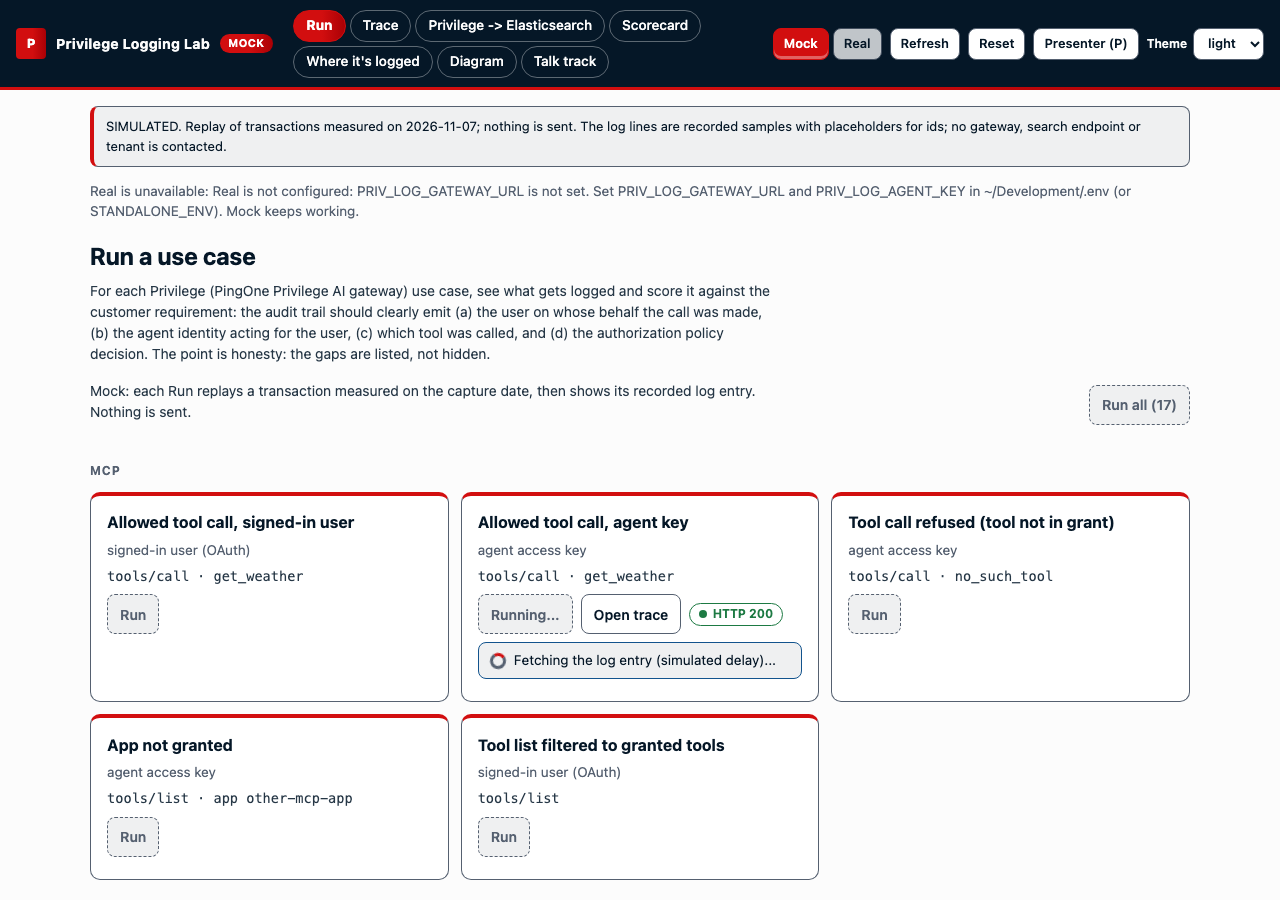
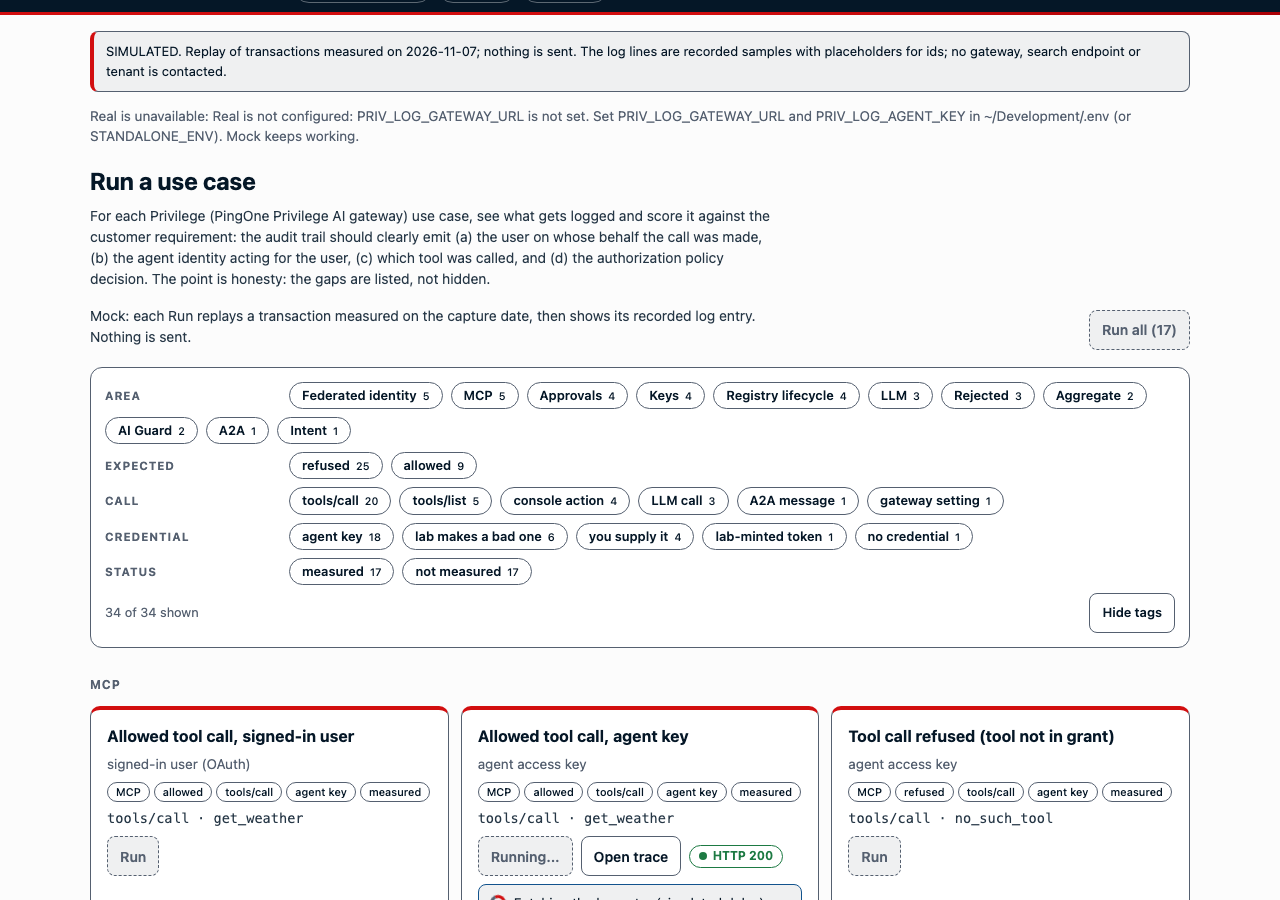
Run page: tag every case card and filter the cards by tag, shelf style

diff --git a/web/src/components/LogEntries.jsx b/web/src/components/LogEntries.jsx
@@ -1,9 +1,10 @@
 import { useMemo, useState } from "react";
+import { TagFilter, TagPills } from "./TagFilter";
 import { parseLogLine } from "../lib/logEntry";
 import { FIELDS, FIELD_LABEL, fieldsOf } from "../lib/marks";
 import { Chip, LevelChip } from "./Chips";
 import JsonTree, { FieldLegend } from "./JsonTree";
-import { matchesAll, tagId, tagsFor } from "../lib/entryTags";
+import { matchesAll, tagsFor } from "../lib/entryTags";
 
 const METHOD = {
   marker: ["ok", "matched by marker"], window: ["warn", "time window: inferred"], recorded: ["info", "recorded sample"],
@@ -16,66 +17,6 @@ const SHOW = 50;
 const KIND = { runtime: ["ok", "runtime event"], console: ["info", "console event"], unknown: ["neutral", "kind unknown"] };
 const GROUPS = [["type", "Event type"], ["match", "This call or nearby"], ["label", "Labels"], ["identity", "Identity"]];
 
-// Styled after the Demo Shelf's tag filter (demo-shelf-LAB): a "Filter by tag" toggle, then a panel of groups with a pill per tag
-// and its count, "X of Y shown", Clear tags / Hide tags. A count is how many entries that tag would leave with every other group's
-// selection applied (within a group, tags add up); a tag that would leave none is disabled unless it is selected.
-function TagFilter({ tagsByEntry, selected, onToggle, onClear, shown, total }) {
-  const [open, setOpen] = useState(false);
-  const all = new Map();
-  for (const tags of tagsByEntry) for (const t of tags) all.set(tagId(t), t);
-  const countFor = (t) => {
-    const others = new Set([...selected].filter((id) => !id.startsWith(`${t.group}:`)));
-    others.add(tagId(t));
-    return tagsByEntry.filter((tags) => matchesAll(tags, others)).length;
-  };
-  const status = <span className="tag-filters__count" role="status" data-testid="tag-filter-count">{shown} of {total} shown</span>;
-  if (!open && selected.size === 0) {
-    return <p className="tag-toggle"><button type="button" aria-expanded="false" onClick={() => setOpen(true)} data-testid="tag-filter-open">Filter by tag</button> {status}</p>;
-  }
-  return (
-    <section className="tag-filters" aria-label="Filter entries by tag" data-testid="tag-filter">
-      {GROUPS.map(([g, label]) => {
-        const items = [...all.values()].filter((t) => t.group === g).map((t) => ({ t, n: countFor(t) })).sort((a, b) => b.n - a.n || a.t.value.localeCompare(b.t.value));
-        if (!items.length) return null;
-        return (
-          <div key={g} role="group" aria-label={label} className="tag-filters__row">
-            <span className="tag-filters__group">{label}</span>
-            {items.map(({ t, n }) => {
-              const on = selected.has(tagId(t));
-              return (
-                <button key={tagId(t)} type="button" className="tag-chip" aria-pressed={on} disabled={!on && n === 0} onClick={() => onToggle(tagId(t))} data-testid="filter-tag" data-tag={tagId(t)}>
-                  {t.value} <small>{n}</small>
-                </button>
-              );
-            })}
-          </div>
-        );
-      })}
-      <div className="tag-filters__bar">
-        {status}
-        {selected.size > 0 && <button type="button" onClick={onClear} data-testid="tag-filter-clear">Clear tags</button>}
-        {selected.size === 0 && <button type="button" aria-expanded="true" onClick={() => setOpen(false)} data-testid="tag-filter-hide">Hide tags</button>}
-      </div>
-    </section>
-  );
-}
-
-// The tags on one entry, as the shelf shows tags on a box: small pills (a picked one is filled), at most MAX_PILLS, then "+N more".
-const MAX_PILLS = 6;
-function EntryTags({ tags, selected, onToggle }) {
-  const [more, setMore] = useState(false);
-  const shown = more ? tags : tags.slice(0, MAX_PILLS);
-  return (
-    <ul className="tag-pills" aria-label="Tags" data-testid="entry-tags">
-      {shown.map((t) => (
-        <li key={tagId(t)}>
-          <button type="button" className="tag-pill" aria-pressed={selected.has(tagId(t))} onClick={() => onToggle(tagId(t))} data-testid="entry-tag" data-tag={tagId(t)}>{t.value}</button>
-        </li>
-      ))}
-      {!more && tags.length > MAX_PILLS && <li><button type="button" className="tag-more" onClick={() => setMore(true)} data-testid="entry-tags-more">+{tags.length - MAX_PILLS} more</button></li>}
-    </ul>
-  );
-}
 
 export default function LogEntries({ lines, methods = [], marks = {}, testId = "lines", scored = true, from = "", kinds = [], indices = [] }) {
   const [all, setAll] = useState(false);
@@ -92,7 +33,7 @@ export default function LogEntries({ lines, methods = [], marks = {}, testId = "
   return (
     <div data-testid={testId}>
       <FieldLegend />
-      <TagFilter tagsByEntry={tagsByEntry} selected={selected} onToggle={toggle} onClear={() => setSelected(new Set())} shown={visibleIdx.length} total={lines.length} />
+      <TagFilter groups={GROUPS} label="Filter entries by tag" tagsByEntry={tagsByEntry} selected={selected} onToggle={toggle} onClear={() => setSelected(new Set())} shown={visibleIdx.length} total={lines.length} />
       <ol className="entries">
         {visibleIdx.slice(0, shown).map((i) => {
           const line = lines[i];
@@ -107,7 +48,7 @@ export default function LogEntries({ lines, methods = [], marks = {}, testId = "
                 {word && <Chip kind={kind} testId="entry-method">{word}</Chip>}
                 {fs.map((f) => <span key={f.field} className="ltag"><span className="ltag__name">{FIELD_LABEL[f.field]}</span> <LevelChip level={f.level} /></span>)}
               </div>
-              <EntryTags tags={tagsByEntry[i]} selected={selected} onToggle={toggle} />
+              <TagPills tags={tagsByEntry[i]} selected={selected} onToggle={toggle} />
               <JsonTree value={parsed[i].value} raw={line} marks={textMarks(i)} label={`Log entry ${i + 1}`} testId={`entry-${i}`} />
             </li>
           );

diff --git a/web/src/components/RunPage.jsx b/web/src/components/RunPage.jsx
@@ -1,4 +1,7 @@
 import { useState } from "react";
+import { TagFilter, TagPills } from "./TagFilter";
+import { CASE_GROUPS, caseTags } from "../lib/caseTags";
+import { matchesAll } from "../lib/entryTags";
 import Busy from "./Busy";
 import FedSetup from "./FedSetup";
 import ConfirmGate from "./ConfirmGate";
@@ -31,17 +34,25 @@ export default function RunPage({ cases, runs, info, running, busy = {}, gate = 
   const sources = info?.retrieval?.sources || [];
   // info === null: /api/info failed, so the page cannot say whether a Run would send. Nothing runs until it loads.
   const unknown = info === null;
+  const [picked, setPicked] = useState(() => new Set());
+  const toggle = (id) => setPicked((s) => { const n = new Set(s); if (n.has(id)) n.delete(id); else n.add(id); return n; });
+  const tagsOf = new Map(cases.cases.map((c) => [c.id, caseTags(c)]));
+  const visible = cases.cases.filter((c) => matchesAll(tagsOf.get(c.id), picked));
   return (
     <div data-testid="run-page">
       <div className="row row--between">
         <p className="lede">{real ? `Real: each Run sends the case to your gateway, then fetches the log entry${sources.length ? ` from ${sources.map((s) => s.label).join(" and ")}` : ""}. ${sources.length ? "" : "No log source is configured: you will paste the lines."}` : "Mock: each Run replays a transaction measured on the capture date, then shows its recorded log entry. Nothing is sent."}</p>
         <button type="button" className="primary" onClick={onRunAll} disabled={!!running || unknown} data-testid="run-all">Run all{real ? " runnable" : ""} ({cases.cases.filter((c) => (real ? c.realRunnable && !c.consoleAction && (!c.needsBearer || c.bearerConfigured) : !c.realOnly)).length})</button>
       </div>
-      {cases.groups.map((g) => (
+      <div data-testid="case-tag-filter">
+        <TagFilter groups={CASE_GROUPS} label="Filter cases by tag" startOpen tagsByEntry={[...tagsOf.values()]} selected={picked} onToggle={toggle} onClear={() => setPicked(new Set())} shown={visible.length} total={cases.cases.length} />
+      </div>
+      {visible.length === 0 && <p className="muted" data-testid="no-cases">No case has all the tags you picked. <button type="button" onClick={() => setPicked(new Set())}>Clear tags</button></p>}
+      {cases.groups.filter((g) => visible.some((c) => c.group === g)).map((g) => (
         <section key={g} aria-labelledby={`grp-${g}`}>
           <h2 id={`grp-${g}`} className="section-label">{g}{cases.cases.find((c) => c.group === g)?.realOnly ? " · not measured yet" : ""}</h2>
           <div className="card-grid">
-            {cases.cases.filter((c) => c.group === g).map((c) => {
+            {visible.filter((c) => c.group === g).map((c) => {
               const r = runs[c.id]; const b = busy[c.id];
               const active = b && (b.phase === "sending" || b.phase === "fetching");
               const mockOnlyBlock = !real && c.realOnly;
@@ -52,6 +63,7 @@ export default function RunPage({ cases, runs, info, running, busy = {}, gate = 
                 <article key={c.id} className="card" data-testid={`case-${c.id}`} aria-busy={active ? "true" : "false"} aria-labelledby={tid}>
                   <h3 className="card__title" id={tid}>{c.title}</h3>
                   <p className="muted">{c.identity}</p>
+                  <TagPills tags={tagsOf.get(c.id)} selected={picked} onToggle={toggle} />
                   <p><code>{summary(c.request)}</code></p>
                   {c.realOnly && <p className="muted" data-testid={`needs-${c.id}`}><Chip kind="warn">not measured</Chip> {c.generatedCredential ? "Nothing to supply: the lab generates the credential." : `Needs: ${c.needs.join("; ")}`}</p>}
                   {real && c.generatedCredential && <p className="muted" data-testid={`generated-${c.id}`}><Chip kind="info">credential generated</Chip> The lab sends {c.generatedCredential}; you do not supply one.</p>}

diff --git a/web/src/components/TagFilter.jsx b/web/src/components/TagFilter.jsx
@@ -1,0 +1,64 @@
+import { useState } from "react";
+import { matchesAll, tagId } from "../lib/entryTags";
+
+// One tag filter for the Run page cards and the Trace entries. Styled after the Demo Shelf's tag filter (demo-shelf-LAB): a "Filter by tag" toggle, then a panel of groups with a pill per tag
+// and its count, "X of Y shown", Clear tags / Hide tags. A count is how many entries that tag would leave with every other group's
+// selection applied (within a group, tags add up); a tag that would leave none is disabled unless it is selected.
+export function TagFilter({ groups, label: aria, tagsByEntry, selected, onToggle, onClear, shown, total, startOpen = false }) {
+  const [open, setOpen] = useState(startOpen);
+  const all = new Map();
+  for (const tags of tagsByEntry) for (const t of tags) all.set(tagId(t), t);
+  const countFor = (t) => {
+    const others = new Set([...selected].filter((id) => !id.startsWith(`${t.group}:`)));
+    others.add(tagId(t));
+    return tagsByEntry.filter((tags) => matchesAll(tags, others)).length;
+  };
+  const status = <span className="tag-filters__count" role="status" data-testid="tag-filter-count">{shown} of {total} shown</span>;
+  if (!open && selected.size === 0) {
+    return <p className="tag-toggle"><button type="button" aria-expanded="false" onClick={() => setOpen(true)} data-testid="tag-filter-open">Filter by tag</button> {status}</p>;
+  }
+  return (
+    <section className="tag-filters" aria-label={aria} data-testid="tag-filter">
+      {groups.map(([g, label]) => {
+        const items = [...all.values()].filter((t) => t.group === g).map((t) => ({ t, n: countFor(t) })).sort((a, b) => b.n - a.n || a.t.value.localeCompare(b.t.value));
+        if (!items.length) return null;
+        return (
+          <div key={g} role="group" aria-label={label} className="tag-filters__row">
+            <span className="tag-filters__group">{label}</span>
+            {items.map(({ t, n }) => {
+              const on = selected.has(tagId(t));
+              return (
+                <button key={tagId(t)} type="button" className="tag-chip" aria-pressed={on} disabled={!on && n === 0} onClick={() => onToggle(tagId(t))} data-testid="filter-tag" data-tag={tagId(t)}>
+                  {t.value} <small>{n}</small>
+                </button>
+              );
+            })}
+          </div>
+        );
+      })}
+      <div className="tag-filters__bar">
+        {status}
+        {selected.size > 0 && <button type="button" onClick={onClear} data-testid="tag-filter-clear">Clear tags</button>}
+        {selected.size === 0 && <button type="button" aria-expanded="true" onClick={() => setOpen(false)} data-testid="tag-filter-hide">Hide tags</button>}
+      </div>
+    </section>
+  );
+}
+
+// The tags on one entry, as the shelf shows tags on a box: small pills (a picked one is filled), at most MAX_PILLS, then "+N more".
+const MAX_PILLS = 6;
+export function TagPills({ tags, selected, onToggle }) {
+  const [more, setMore] = useState(false);
+  const shown = more ? tags : tags.slice(0, MAX_PILLS);
+  return (
+    <ul className="tag-pills" aria-label="Tags" data-testid="entry-tags">
+      {shown.map((t) => (
+        <li key={tagId(t)}>
+          <button type="button" className="tag-pill" aria-pressed={selected.has(tagId(t))} onClick={() => onToggle(tagId(t))} data-testid="entry-tag" data-tag={tagId(t)}>{t.value}</button>
+        </li>
+      ))}
+      {!more && tags.length > MAX_PILLS && <li><button type="button" className="tag-more" onClick={() => setMore(true)} data-testid="entry-tags-more">+{tags.length - MAX_PILLS} more</button></li>}
+    </ul>
+  );
+}
+

diff --git a/web/src/App.test.jsx b/web/src/App.test.jsx
@@ -147,6 +147,28 @@ describe("Mock mode", () => {
     expect(screen.getByTestId("run-no-credential")).not.toBeDisabled();
   });
 
+  it("Run page: every case card carries tags and the open tag panel filters the cards (empty sections hide); Clear restores", async () => {
+    lab = await startLab();
+    const user = userEvent.setup();
+    render(<App />);
+    const page = await screen.findByTestId("run-page");
+    const panel = within(screen.getByTestId("case-tag-filter"));
+    const total = within(page).getAllByTestId(/^case-/).filter((el) => el.tagName === "ARTICLE").length;
+    expect(panel.getByTestId("tag-filter")).toBeInTheDocument(); // open from the start, not behind a toggle
+    expect(panel.getByTestId("tag-filter-count").textContent).toBe(`${total} of ${total} shown`);
+    expect(within(screen.getByTestId("case-fed-valid-token")).getAllByTestId("entry-tag").map((t) => t.getAttribute("data-tag"))).toEqual(expect.arrayContaining(["area:Federated identity", "expect:allowed", "credential:lab-minted token"]));
+    const chip = (id) => panel.getAllByTestId("filter-tag").find((b) => b.getAttribute("data-tag") === id);
+    await user.click(chip("area:Federated identity"));
+    expect(panel.getByTestId("tag-filter-count").textContent).toBe(`5 of ${total} shown`);
+    expect(screen.queryByTestId("case-mcp-allowed-key")).toBeNull();
+    expect(screen.queryByRole("heading", { name: "MCP" })).toBeNull();
+    await user.click(chip("expect:allowed"));
+    expect(panel.getByTestId("tag-filter-count").textContent).toBe(`1 of ${total} shown`);
+    expect(screen.getByTestId("case-fed-valid-token")).toBeInTheDocument();
+    await user.click(panel.getByTestId("tag-filter-clear"));
+    expect(panel.getByTestId("tag-filter-count").textContent).toBe(`${total} of ${total} shown`);
+  });
+
   it("from an opened Trace, Back to Run and the browser Back button both return to the Run page with that case's Open trace focused", async () => {
     lab = await startLab();
     const user = userEvent.setup();

diff --git a/web/src/lib/caseTags.js b/web/src/lib/caseTags.js
@@ -1,0 +1,31 @@
+// Tags for one case card on the Run page, so the cards can be filtered like boxes on the Demo Shelf. Pure: case in, tags out.
+//   area        the case's group (MCP, AI Guard, Keys, ...)
+//   expect      what the gateway should do: allow or refuse
+//   call        what is sent: tools/call, tools/list, A2A message, LLM call, console action, gateway setting
+//   credential  who supplies the credential: agent key, you, the lab (made up or minted), none
+//   status      measured (Mock can replay it) or not measured (Real only)
+// Tags never depend on a run's result: a run must not change the filter panel, or the cards below it would jump.
+// A tag is { group, value } and shares ids and matching with the Trace tags (lib/entryTags.js).
+
+export const CASE_GROUPS = [["area", "Area"], ["expect", "Expected"], ["call", "Call"], ["credential", "Credential"], ["status", "Status"]];
+
+const callOf = (m = "") => (m.startsWith("POST /llm") ? "LLM call" : m === "message/send" ? "A2A message" : m === "any" ? "gateway setting" : m);
+
+function credentialOf(c) {
+  if (c.consoleAction) return null;
+  if (c.id === "no-credential") return "no credential";
+  if (c.mintsToken) return "lab-minted token";
+  if (c.generatedCredential) return "lab makes a bad one";
+  if (c.needsBearer) return "you supply it";
+  return "agent key";
+}
+
+export function caseTags(c) {
+  const tags = [{ group: "area", value: c.group }, { group: "expect", value: c.path === "happy" ? "allowed" : "refused" }];
+  const call = callOf(c.request?.method);
+  if (call) tags.push({ group: "call", value: call });
+  const cred = credentialOf(c);
+  if (cred) tags.push({ group: "credential", value: cred });
+  tags.push({ group: "status", value: c.realOnly ? "not measured" : "measured" });
+  return tags;
+}

diff --git a/web/src/lib/caseTags.test.js b/web/src/lib/caseTags.test.js
@@ -1,0 +1,23 @@
+import { describe, expect, it } from "vitest";
+import { caseTags } from "./caseTags";
+
+const base = { id: "x", group: "MCP", path: "happy", request: { method: "tools/call" }, realOnly: false };
+const vals = (c) => caseTags(c).map((t) => `${t.group}:${t.value}`);
+
+describe("caseTags", () => {
+  it("tags area, expectation, call, credential and status", () => {
+    expect(vals(base)).toEqual(["area:MCP", "expect:allowed", "call:tools/call", "credential:agent key", "status:measured"]);
+  });
+  it("names the credential source", () => {
+    expect(vals({ ...base, id: "no-credential" })).toContain("credential:no credential");
+    expect(vals({ ...base, mintsToken: true, needsBearer: true })).toContain("credential:lab-minted token");
+    expect(vals({ ...base, generatedCredential: "a made-up key" })).toContain("credential:lab makes a bad one");
+    expect(vals({ ...base, needsBearer: true })).toContain("credential:you supply it");
+    expect(vals({ ...base, consoleAction: true, request: { method: "console action" } }).some((t) => t.startsWith("credential:"))).toBe(false);
+  });
+  it("maps LLM and A2A calls and the measured status", () => {
+    expect(vals({ ...base, request: { method: "POST /llm/<provider>/v1/messages" } })).toContain("call:LLM call");
+    expect(vals({ ...base, request: { method: "message/send" } })).toContain("call:A2A message");
+    expect(vals({ ...base, path: "failure", realOnly: true })).toEqual(expect.arrayContaining(["expect:refused", "status:not measured"]));
+  });
+});

diff --git a/web/src/App.jsx b/web/src/App.jsx
@@ -155,7 +155,7 @@ export default function App() {
     const el = focusReq.target === "title" ? titleRef.current : document.querySelector(`[data-testid="${focusReq.target}"]`);
     const at = document.activeElement;
     // only when focus was lost (body, nothing, a disabled or removed control): never take focus from where the user moved it
-    if (el && !el.disabled && (!at || at === document.body || at.disabled || !at.isConnected)) el.focus();
+    if (el && !el.disabled && (!at || at === document.body || at.disabled || !at.isConnected)) el.focus({ preventScroll: true });
     setFocusReq(null);
   }, [focusReq, running, nav]);
   // A single Run from the Run page confirms inside that case's card (no jump to the top of the page).

diff --git a/CHANGELOG.md b/CHANGELOG.md
@@ -1,5 +1,11 @@
 # Changelog
 
+## Unreleased (case tags)
+
+- Run page: every case card carries tags (area, expected allow/refuse, call, credential, measured or not) and an open tag panel above the cards filters them, shelf style; sections with no matching card hide. Clicking a tag on a card toggles it too.
+- The tag filter is one shared component for the Run page and the Trace.
+- Finishing a run no longer scrolls the page to bring the Run button into view (focus returns without scrolling).
+
 ## Unreleased (entry tags)
 
 - Trace: every log entry has clickable tags (event type, this call or nearby, labels, identity) and each sink has a tag filter with counts.
